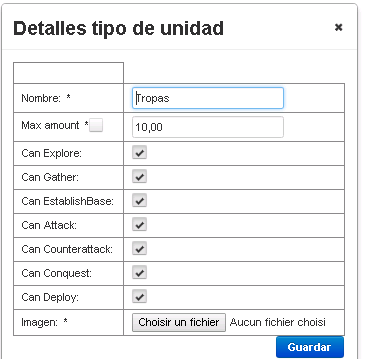
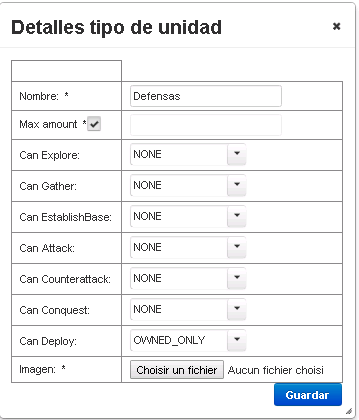
(Task) Modify view to allow defining runnable missions by unit types

Changed region(s): [[0.0, 0.0, 1.0, 1.0], [0.6741, 0.6741, 0.7047, 0.7047], [0.6741, 0.5209, 0.7047, 0.5515]]

diff --git a/business/src/main/java/com/kevinguanchedarias/sgtjava/entity/UnitType.java b/business/src/main/java/com/kevinguanchedarias/sgtjava/entity/UnitType.java
@@ -145,6 +145,62 @@ public class UnitType extends EntityWithImage implements SimpleIdEntity {
 		this.upgradeEnhancements = upgradeEnhancements;
 	}
 
+	public MissionSupportEnum getCanExplore() {
+		return canExplore;
+	}
+
+	public void setCanExplore(MissionSupportEnum canExplore) {
+		this.canExplore = canExplore;
+	}
+
+	public MissionSupportEnum getCanGather() {
+		return canGather;
+	}
+
+	public void setCanGather(MissionSupportEnum canGather) {
+		this.canGather = canGather;
+	}
+
+	public MissionSupportEnum getCanEstablishBase() {
+		return canEstablishBase;
+	}
+
+	public void setCanEstablishBase(MissionSupportEnum canEstablishBase) {
+		this.canEstablishBase = canEstablishBase;
+	}
+
+	public MissionSupportEnum getCanAttack() {
+		return canAttack;
+	}
+
+	public void setCanAttack(MissionSupportEnum canAttack) {
+		this.canAttack = canAttack;
+	}
+
+	public MissionSupportEnum getCanCounterattack() {
+		return canCounterattack;
+	}
+
+	public void setCanCounterattack(MissionSupportEnum canCounterattack) {
+		this.canCounterattack = canCounterattack;
+	}
+
+	public MissionSupportEnum getCanConquest() {
+		return canConquest;
+	}
+
+	public void setCanConquest(MissionSupportEnum canConquest) {
+		this.canConquest = canConquest;
+	}
+
+	public MissionSupportEnum getCanDeploy() {
+		return canDeploy;
+	}
+
+	public void setCanDeploy(MissionSupportEnum canDeploy) {
+		this.canDeploy = canDeploy;
+	}
+
 	@Override
 	public int hashCode() {
 		final int prime = 31;

diff --git a/admin/src/main/java/com/kevinguanchedarias/sgtjava/controller/UnitTypesController.java b/admin/src/main/java/com/kevinguanchedarias/sgtjava/controller/UnitTypesController.java
@@ -12,6 +12,7 @@ import org.springframework.beans.factory.annotation.Autowired;
 
 import com.kevinguanchedarias.sgtjava.business.UnitTypeBo;
 import com.kevinguanchedarias.sgtjava.entity.UnitType;
+import com.kevinguanchedarias.sgtjava.enumerations.MissionSupportEnum;
 import com.kevinguanchedarias.sgtjava.util.ControllerUtil;
 
 @ManagedBean
@@ -25,12 +26,14 @@ public class UnitTypesController extends SgtCommonController<UnitType> {
 
 	private List<UnitType> unitTypes;
 	private boolean isUnlimited = true;
+	private MissionSupportEnum[] missionSupportEnumValues = MissionSupportEnum.values();
 
 	@PostConstruct
 	public void init() {
 		ControllerUtil.enableAutowire(this);
 		initFileUploadForImage();
 		loadData();
+		newObject();
 	}
 
 	@Override
@@ -81,6 +84,14 @@ public class UnitTypesController extends SgtCommonController<UnitType> {
 
 	public void setUnlimited(boolean isUnlimited) {
 		this.isUnlimited = isUnlimited;
+	}
+
+	public MissionSupportEnum[] getMissionSupportEnumValues() {
+		return missionSupportEnumValues;
+	}
+
+	public void setMissionSupportEnumValues(MissionSupportEnum[] missionSupportEnumValues) {
+		this.missionSupportEnumValues = missionSupportEnumValues;
 	}
 
 	/**
